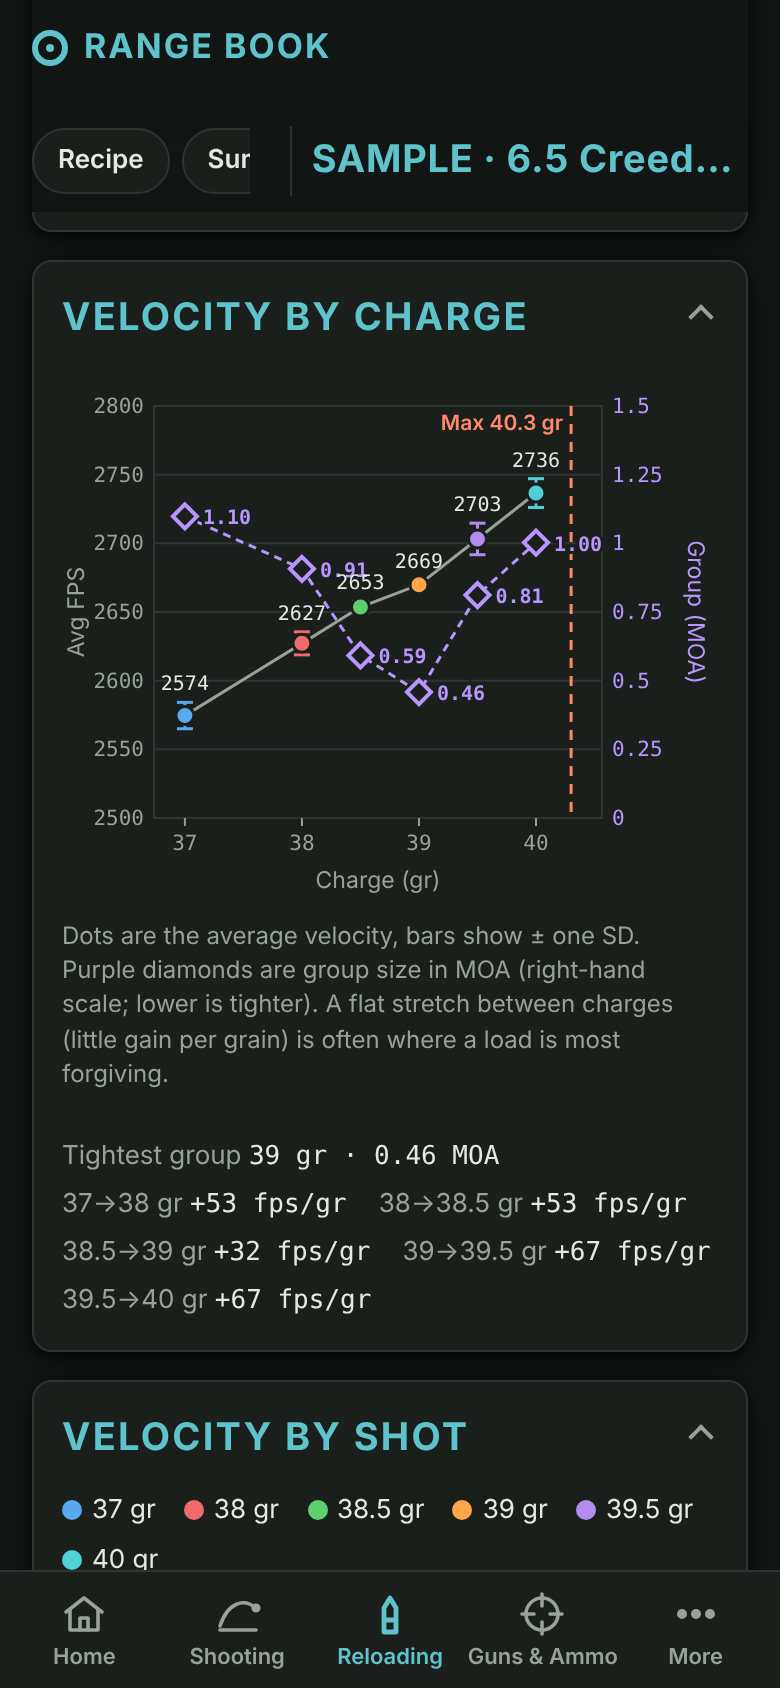
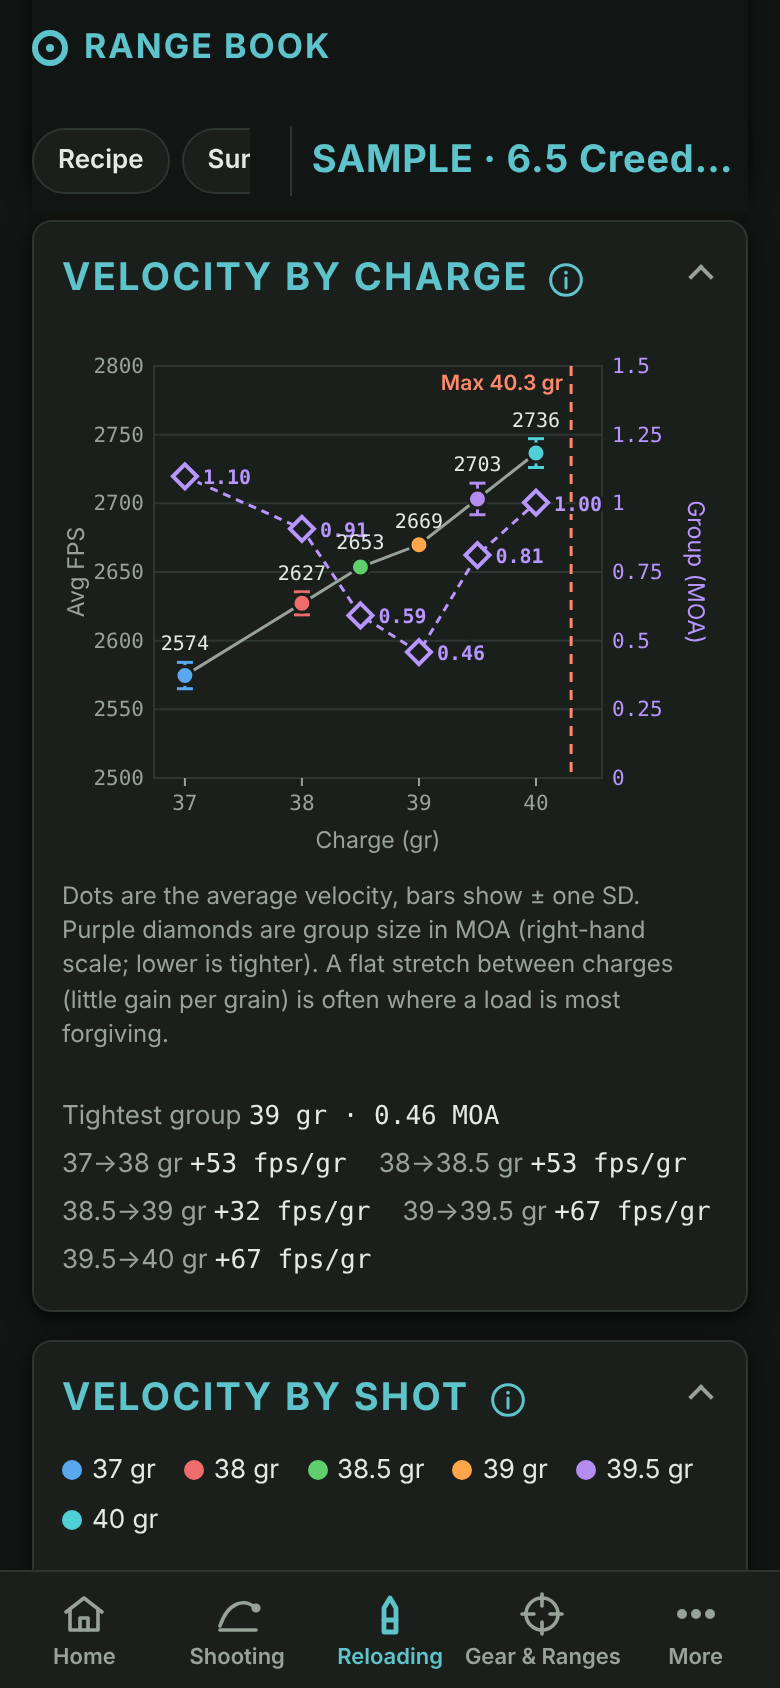
2.13.1: new README screenshots and updated GitHub docs
- Retook all screenshots from the current version with made-up data (account 'demo'), added three
- README, Unraid template and CONTRIBUTING mention scopes, spreadsheet import and syncing
- Import from a spreadsheet: comparison table rows no longer shaded unevenly

Claude-Session: https://claude.ai/code/session_017pQUP42RQDjmn3qfY4mXFm

diff --git a/public/index.html b/public/index.html
@@ -935,7 +935,7 @@ textarea.notebody{min-height:260px;line-height:1.5;font-size:16px;resize:vertica
 .sxseg{margin-top:8px;max-width:420px}.sxseg button.on{background:var(--accent);color:var(--accent-fg)}
 .sxall{gap:6px;align-items:center}
 .sxdiff{width:100%;table-layout:fixed;border-collapse:collapse;font-size:13.5px;margin:4px 0}.sxdiff th,.sxdiff td{font-family:var(--body);white-space:normal;text-align:left;padding:4px 6px;border-bottom:1px solid var(--line);vertical-align:top;overflow-wrap:anywhere;background:none}
-.sxdiff thead th{font-size:12px;color:var(--muted);font-weight:600}.sxdiff tbody th{font-weight:600;width:32%}
+.sxdiff thead th{font-size:12px;color:var(--muted);font-weight:600}.sxdiff tbody tr td,.sxdiff tbody tr:nth-child(even) td,.sxdiff tbody tr:nth-child(even) td:first-child{background:transparent}.sxdiff tbody th{font-weight:600;width:32%}
 .sxbad label{display:block;font-size:14px;margin-bottom:6px}.sxbad input{flex:1 1 160px;max-width:240px;padding:8px 10px;border:1px solid var(--line);border-radius:8px;background:var(--sunk);color:var(--fg);font:inherit}
 .sxcart input{padding:8px 10px;border:1px solid var(--line);border-radius:8px;background:var(--sunk);color:var(--fg);font:inherit}
 .sxlist{margin:4px 0;padding-left:20px;line-height:1.6}

diff --git a/README.md b/README.md
@@ -7,14 +7,21 @@ Free software under the [GNU AGPL-3.0](#license).
 > **Beta:** Range Book is still in beta, and not everything has been tested thoroughly. Double-check anything that matters (charges, load data, dope) against your load manual and your own results. Each new version shows this notice once in the app, and it has to be dismissed.
 
 <p>
-  <img src="docs/screenshots/shooting-desktop.png" alt="Shooting: trajectory chart and zeros" width="49%">
-  <img src="docs/screenshots/reloading-desktop.png" alt="Reloading: a ladder test with its summary" width="49%">
+  <img src="docs/screenshots/shooting-desktop.png" alt="Shooting: a load with its gun picked, the trajectory chart and zeros (Dark theme)" width="49%">
+  <img src="docs/screenshots/reloading-desktop.png" alt="Reloading: a ladder test with its summary and velocity chart" width="49%">
 </p>
 <p>
-  <img src="docs/screenshots/phone-home.png" alt="Home on a phone" width="32%">
-  <img src="docs/screenshots/phone-dope.png" alt="Dope card in the Red Night theme" width="32%">
-  <img src="docs/screenshots/phone-ladder.png" alt="Velocity by charge chart" width="32%">
+  <img src="docs/screenshots/phone-home.png" alt="Home on a phone: rounds fired and recent range trips" width="32%">
+  <img src="docs/screenshots/phone-dope.png" alt="Dope card with its MOA / MIL button, set by the gun's scope (Red Night theme)" width="32%">
+  <img src="docs/screenshots/phone-reticle.png" alt="The hold for 600 yards drawn on the scope's reticle (Red Night theme)" width="32%">
 </p>
+<p>
+  <img src="docs/screenshots/phone-ladder.png" alt="Velocity by charge with group sizes (Dark theme)" width="32%">
+  <img src="docs/screenshots/phone-gun.png" alt="A gun's round count, barrel life and cleaning reminder" width="32%">
+  <img src="docs/screenshots/phone-import.png" alt="Import from a spreadsheet: a gun that's already in Range Book, shown side by side" width="32%">
+</p>
+
+<sub>Screenshots use made-up data, including the built-in SAMPLE load.</sub>
 
 > **Safety first.** Range Book is a notebook and a calculator, not a load manual. A new install comes with a made-up **SAMPLE** 6.5 Creedmoor load to show how things work. Its numbers aren't real load data. Always work from a current published load manual for your exact components.
 
@@ -144,7 +151,7 @@ An **https** address is what lets a phone use Range Book **offline**, share its 
 
 ## Backups
 
-**Your own copy:** everyone can tap **Account → Download backup** for a .zip of everything in their account, photos included, and bring it back with **Account → Import** on this or any other Range Book. Import adds to the account and skips anything already there, so it never deletes or doubles anything. Excel exports can be imported too (without photos). Admins can download any person's backup from the Admin page.
+**Your own copy:** everyone can tap **Account → Download backup** for a .zip of everything in their account, photos included, and bring it back with **Account → Import** on this or any other Range Book. Import adds to the account and skips anything already there, so it never deletes or doubles anything. Excel exports can be imported too (without photos). To add guns, scopes, factory ammo or components from your own spreadsheet, use **Account → Import from a spreadsheet** (there's a template to download). Admins can download any person's backup from the Admin page.
 
 **The whole server:** everything is in your data folder: the database `rangebook.db` and the `photos` folder.
 

diff --git a/CONTRIBUTING.md b/CONTRIBUTING.md
@@ -3,9 +3,9 @@
 Thanks for helping. Bug reports, ideas and fixes are all welcome.
 
 - **Bugs and ideas:** open an issue. Say what you did, what you expected and what happened, plus your Range Book version (bottom of the More menu) and your phone or browser.
-- **Code:** fork the repository, make your change on a branch and open a pull request against the **`dev`** branch. `main` holds the released version; work collects on `dev` and goes out together in the next release. Range Book has no build step and no npm packages: `server.js` is the server, `public/index.html` is the whole app. Run it locally with `PORT=9090 DATA_DIR=./data node server.js` (Node 22 or newer) and check your change on a phone-sized screen and a desktop, in the Light, Dark and Red Night themes.
+- **Code:** fork the repository, make your change on a branch and open a pull request against the **`dev`** branch. `main` holds the released version; work collects on `dev` and goes out together in the next release. Range Book has no build step and no npm packages: `server.js` is the server and `public/index.html` is the whole app; `export.js` (Excel and PDF), `backup.js` (backups and reading spreadsheets) and `merge.js` (combining saves from several devices) are small helpers the server uses. Run it locally with `PORT=9090 DATA_DIR=./data node server.js` (Node 22 or newer) and check your change on a phone-sized screen and a desktop, in the Light, Dark and Red Night themes.
 - **Version notes:** add a plain-language line about your change to the top entry of `public/changelog.json`.
-- **Never include real data.** No real loads, notes, photos or exports in issues, commits or screenshots. Use the built-in sample load.
+- **Never include real data.** No real loads, notes, photos or exports in issues, commits or screenshots. Use the built-in sample load and made-up gear (the README screenshots use an account called `demo`).
 
 ## License of contributions
 
